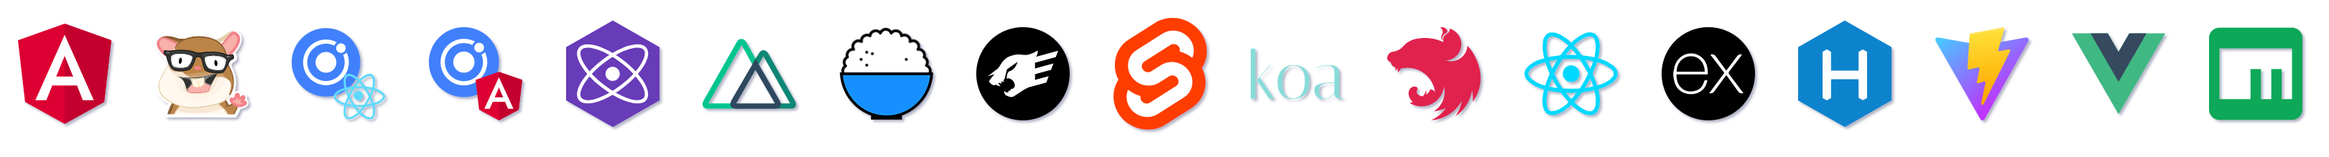
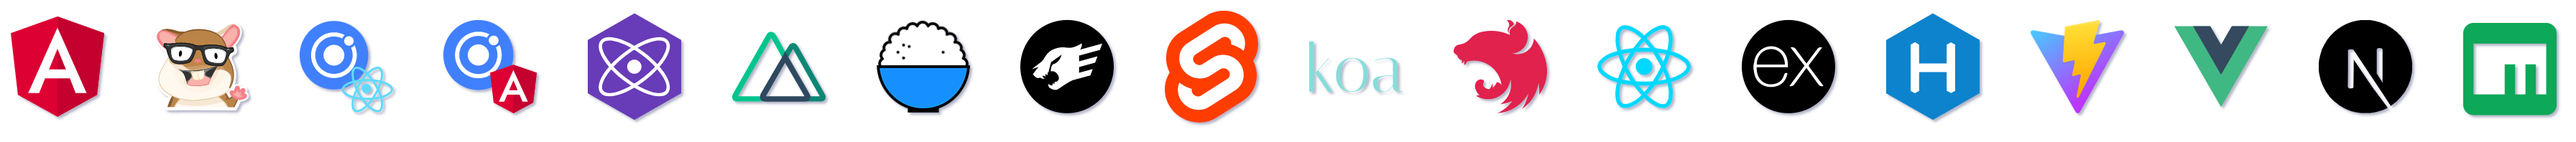
update

diff --git a/docs/guide/更新日志.md b/docs/guide/更新日志.md
@@ -4,8 +4,63 @@ title: 更新日志
 
 # 更新日志
 
-## 2.20.0
+## Version: v2.22.6
+Time: 2022-04-16
+- fix security alerts
 
+## Version: v2.22.4
+Time: 2022-04-15
+- fix(qq-guild-bot-adapter) 升级依赖修复 BUG
+
+## Version: v2.22.3
+Time: 2022-04-15
+- fix(scf-adapter) 修复事件类型函数入口问题
+
+## Version: v2.22.2
+Time: 2022-04-15
+- fix(qq-guild-bot-adapter) 修复遗留的 ws 问题
+
+## Version: v2.22.0
+Time: 2022-04-15
+- feat(qq-guild-bot-adapter) 移除 websocket 相关
+- feat(node-runtime-plugin) 升级函数计算 Custom Runtime 中 node 版本，从而支持新版 Next.js 项目
+
+## Version: v2.21.2
+Time: 2022-04-14
+- feat(qq-guild-bot-adapter) 支持读取 `bot-config.json` 中的 `secret` 属性
+- feat(cli) 更新 `mycli` 模板
+
+## Version: v2.21.1
+Time: 2022-04-13
+- feat(fc-plugin) 支持 `malagu info` 命令打印随机域名
+- feat(cloud-plugin) 优化对象存储上传代码，协议如下：`s3://bucket/key?region=xxx&version=1`，其中 key 支持多级路径，region 和 version 可选
+
+## Version: v2.21.0
+Time: 2022-04-13
+- fix(core) 兼容 nodejs12 以下的版本
+- feat(fc-plugin) 支持自动生成随机域名，方便用户测试与预览
+- feat(scf-plugin) 支持函数 EnvId 等更多新属性的配置
+- feat(*-plugin) 支持通过对象存储上传代码
+- feat(cli) 支持最新版 Next.js 框架
+
+## Version: v2.20.5
+Time: 2022-04-08
+- feat(cli-runtime) 默认运行时添加 `@malagu/qq-guild-bot-adapter` 和 `@malagu/next-plugin`
+
+## Version: v2.20.3
+Time: 2022-04-08
+- feat(faas-adapter) FaaSEventListener 接口支持返回参数
+- feat(qq-guild-bot-adapter) 支持 QQ 机器人更优雅地结束
+
+## Version: v2.20.2
+Time: 2022-04-08
+- fix(scf-plugin) 修复定时触发器参数错误
+
+## Version: v2.20.1
+Time: 2022-04-07
+- fix(core) global 改为 globalThis 兼容非 nodejs 场景
+## Version: v2.20.0
+Time: 2022-04-06
 - `新增` (cli) 添加新模板 `standalone-app`，如何在不适用命令行工具的情况下，集成框架能力
 - `新增` (core) 添加应用工场，方便第三方项目集成框架核心能力
 - `新增` (core) 应用接口 `Application` 添加 `stop` 方法
